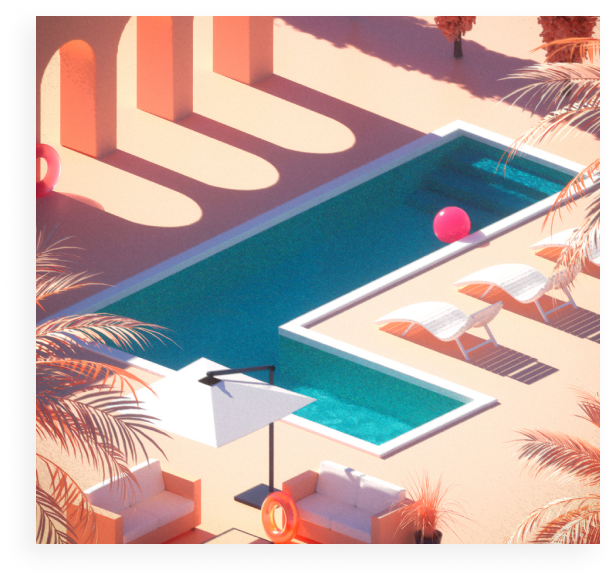
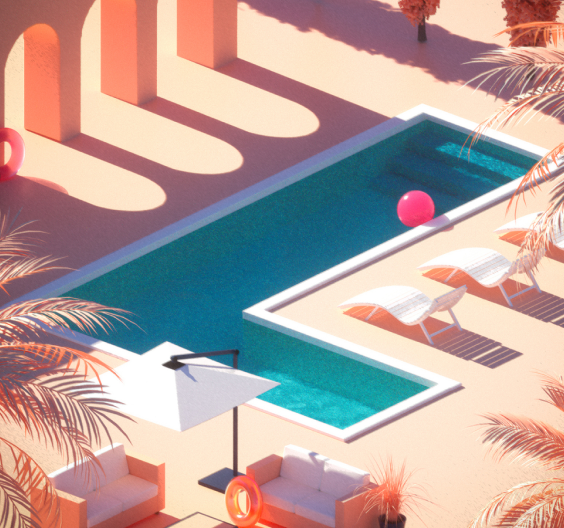
fixed other images

diff --git a/src/components/Section1.js b/src/components/Section1.js
@@ -67,7 +67,9 @@ const ImageBorder = styled.div`
 `;
 
 const ImageStyle = styled.img`
-  max-width: 100%;
+  width: 450px;
+  object-fit: cover;
+  object-position: top;
   max-height: 100%;
   animation: 1.25s ${slideInDown};
 `;

diff --git a/src/components/Section5.js b/src/components/Section5.js
@@ -58,7 +58,6 @@ const ImageBorder = styled.div`
   background: #fff;
   padding: 40px;
   width: 400px;
-  height: 400px;
   box-shadow: 0 50px 100px -20px rgba(50, 50, 93, 0.25);
   border: 1px solid #ede8e5;
 `;
